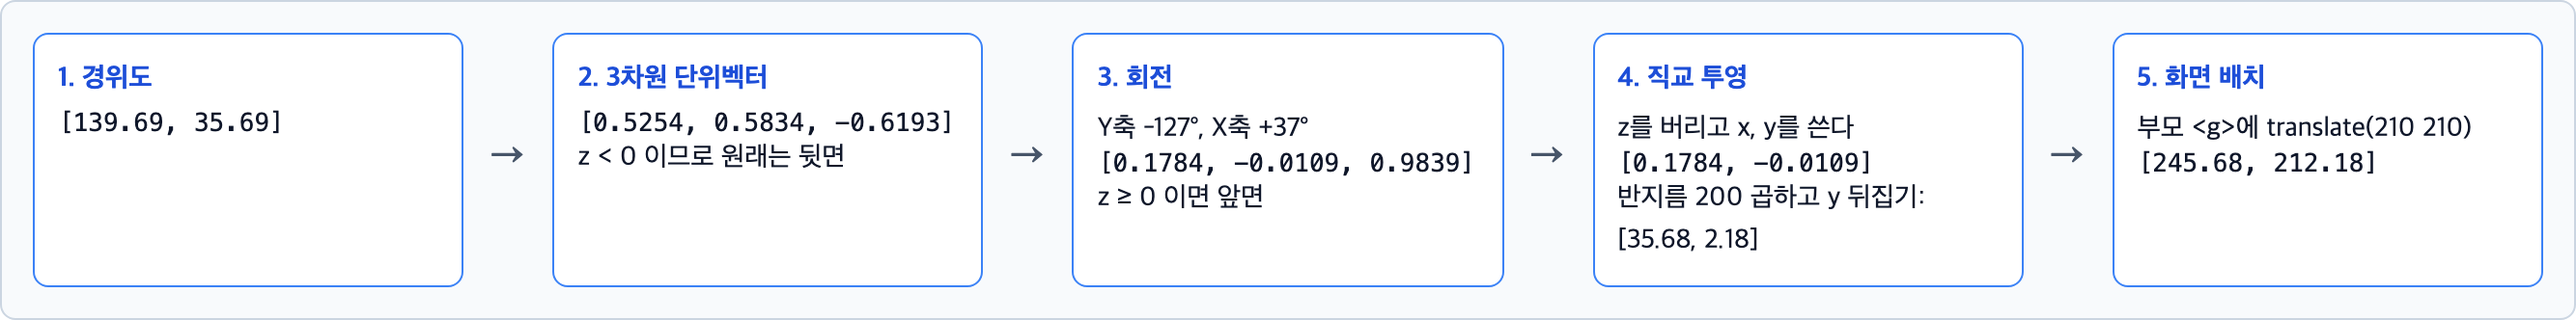
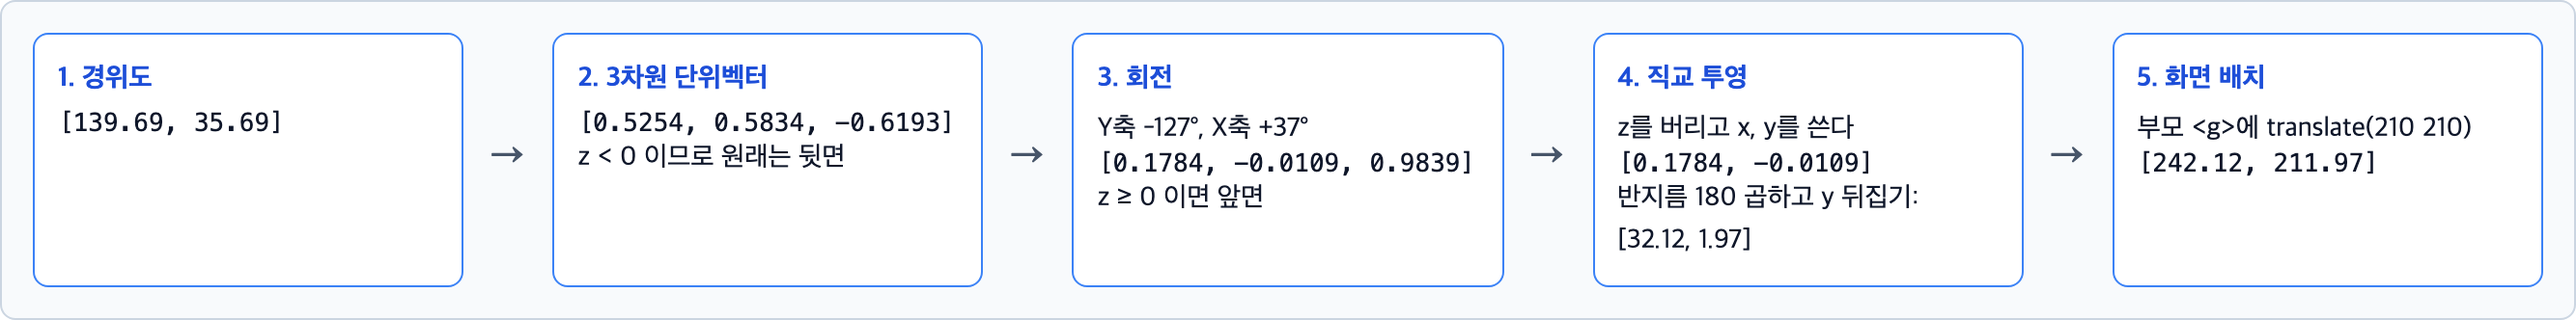
fix(blog): 리뷰 반영 — 예제 반지름 불일치 수정과 설명 보강 (#50)
- 예제 출력·다이어그램·클릭 캡처를 지구본 반지름 180px 기준으로 다시 만들고 역변환 결과를 도쿄 좌표와 일치시킴
- 회전 순서, 드래그 환산, 뒷면 잘라내기의 한계와 근거를 실제 값으로 보강
- 도입 목록, 소제목, 용어, 정리·마치며의 중복을 정리

diff --git a/playground/globe-panning/src/globe-view.js b/playground/globe-panning/src/globe-view.js
@@ -49,12 +49,12 @@ export function createGlobeView(svg, readout, countries) {
     const unit = { x: local.x / RADIUS, y: -local.y / RADIUS };
     const lonLat = invertOrthographic(unit.x, unit.y, center); // 2) 역직교투영 3) 역회전
     if (lonLat === null) {
-      clickLog = `클릭한 화면 좌표: (${px.toFixed(0)}, ${py.toFixed(0)})\n지구 바깥입니다.`;
+      clickLog = `클릭한 화면 좌표: (${px.toFixed(2)}, ${py.toFixed(2)})\n지구 바깥입니다.`;
       return;
     }
     const withoutRotation = invertOrthographic(unit.x, unit.y, { lon: 0, lat: 0 });
     clickLog = [
-      `클릭한 화면 좌표: (${px.toFixed(0)}, ${py.toFixed(0)})`,
+      `클릭한 화면 좌표: (${px.toFixed(2)}, ${py.toFixed(2)})`,
       `1) transform 역변환: (${local.x.toFixed(1)}, ${local.y.toFixed(1)}) -> 단위 원판 (${unit.x.toFixed(4)}, ${unit.y.toFixed(4)})`,
       `2~3) 역직교투영 + 역회전: ${formatLonLat(lonLat)}`,
       `참고) 회전을 무시하고 (0°, 0°) 중심으로 역변환: ${formatLonLat(withoutRotation ?? [NaN, NaN])}`,

diff --git a/playground/globe-panning/src/mercator-view.js b/playground/globe-panning/src/mercator-view.js
@@ -47,7 +47,7 @@ export function createMercatorView(svg, readout, countries) {
     marker.setAttribute('cy', String(-forward.y * RADIUS));
     marker.setAttribute('visibility', 'visible');
     clickLog = [
-      `클릭한 화면 좌표: (${px.toFixed(0)}, ${py.toFixed(0)})`,
+      `클릭한 화면 좌표: (${px.toFixed(2)}, ${py.toFixed(2)})`,
       `1) transform 역변환: (${local.x.toFixed(1)}, ${local.y.toFixed(1)})`,
       `2) 역메르카토르: ${formatLonLat(lonLat)}`,
     ].join('\n');
